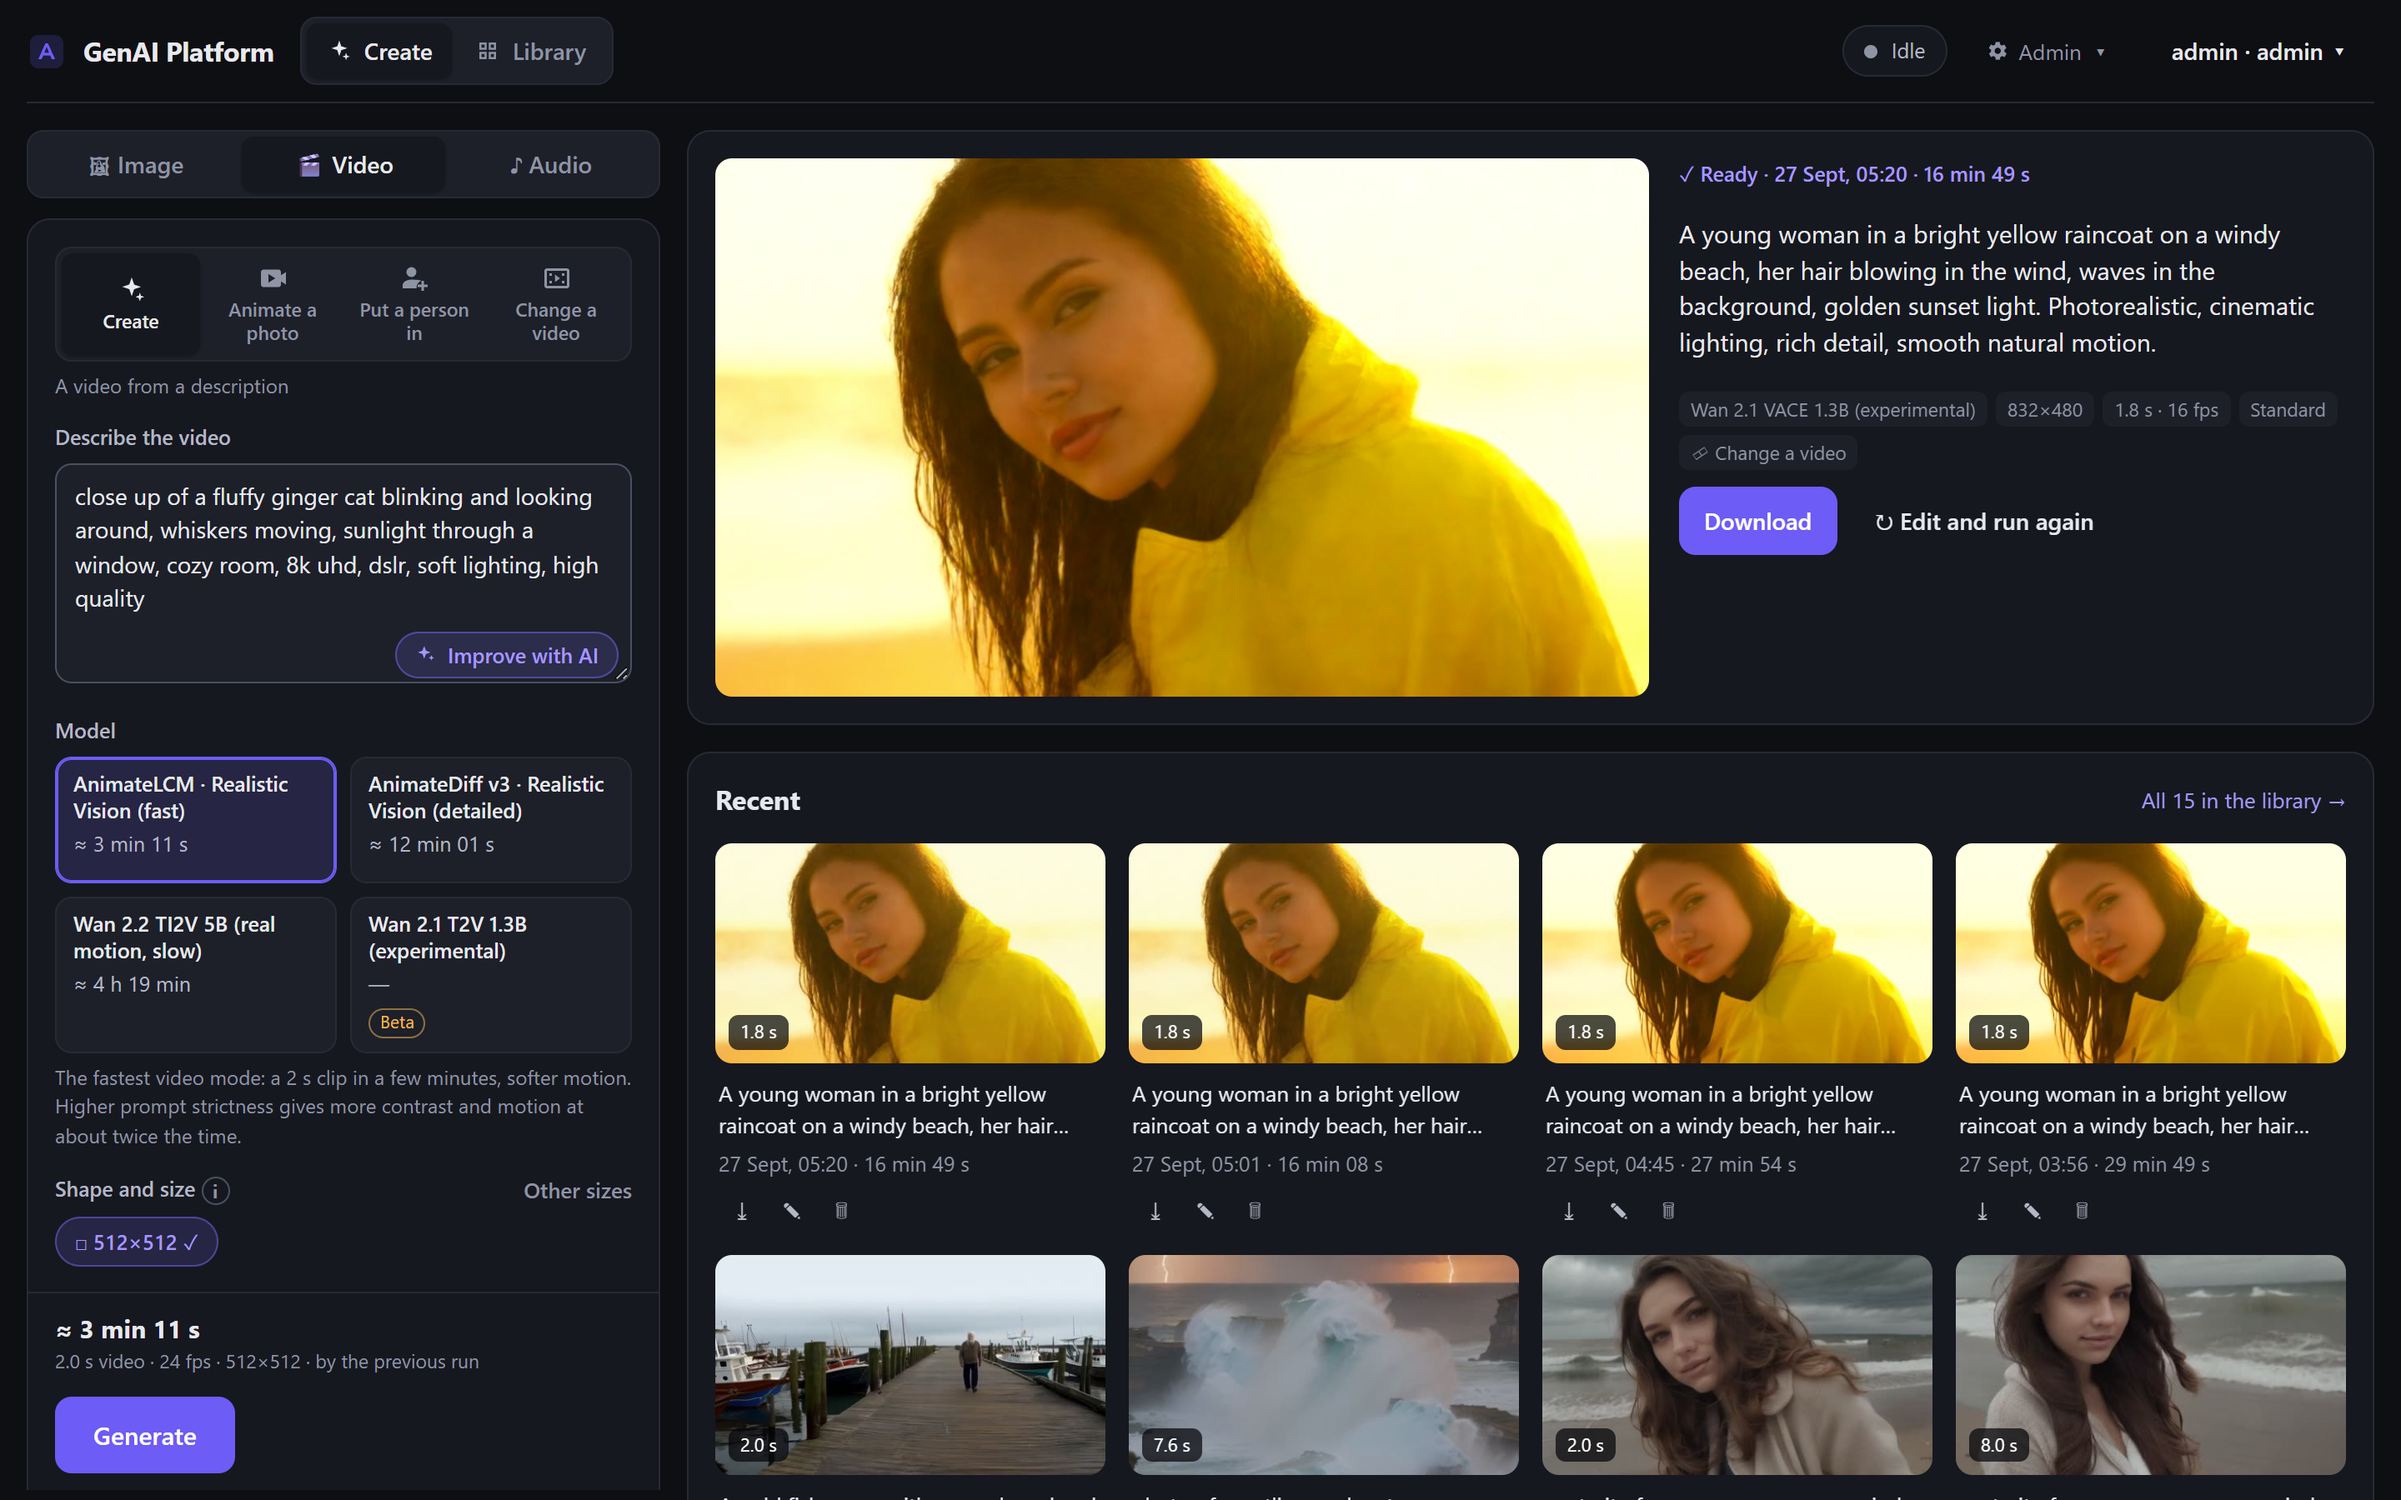
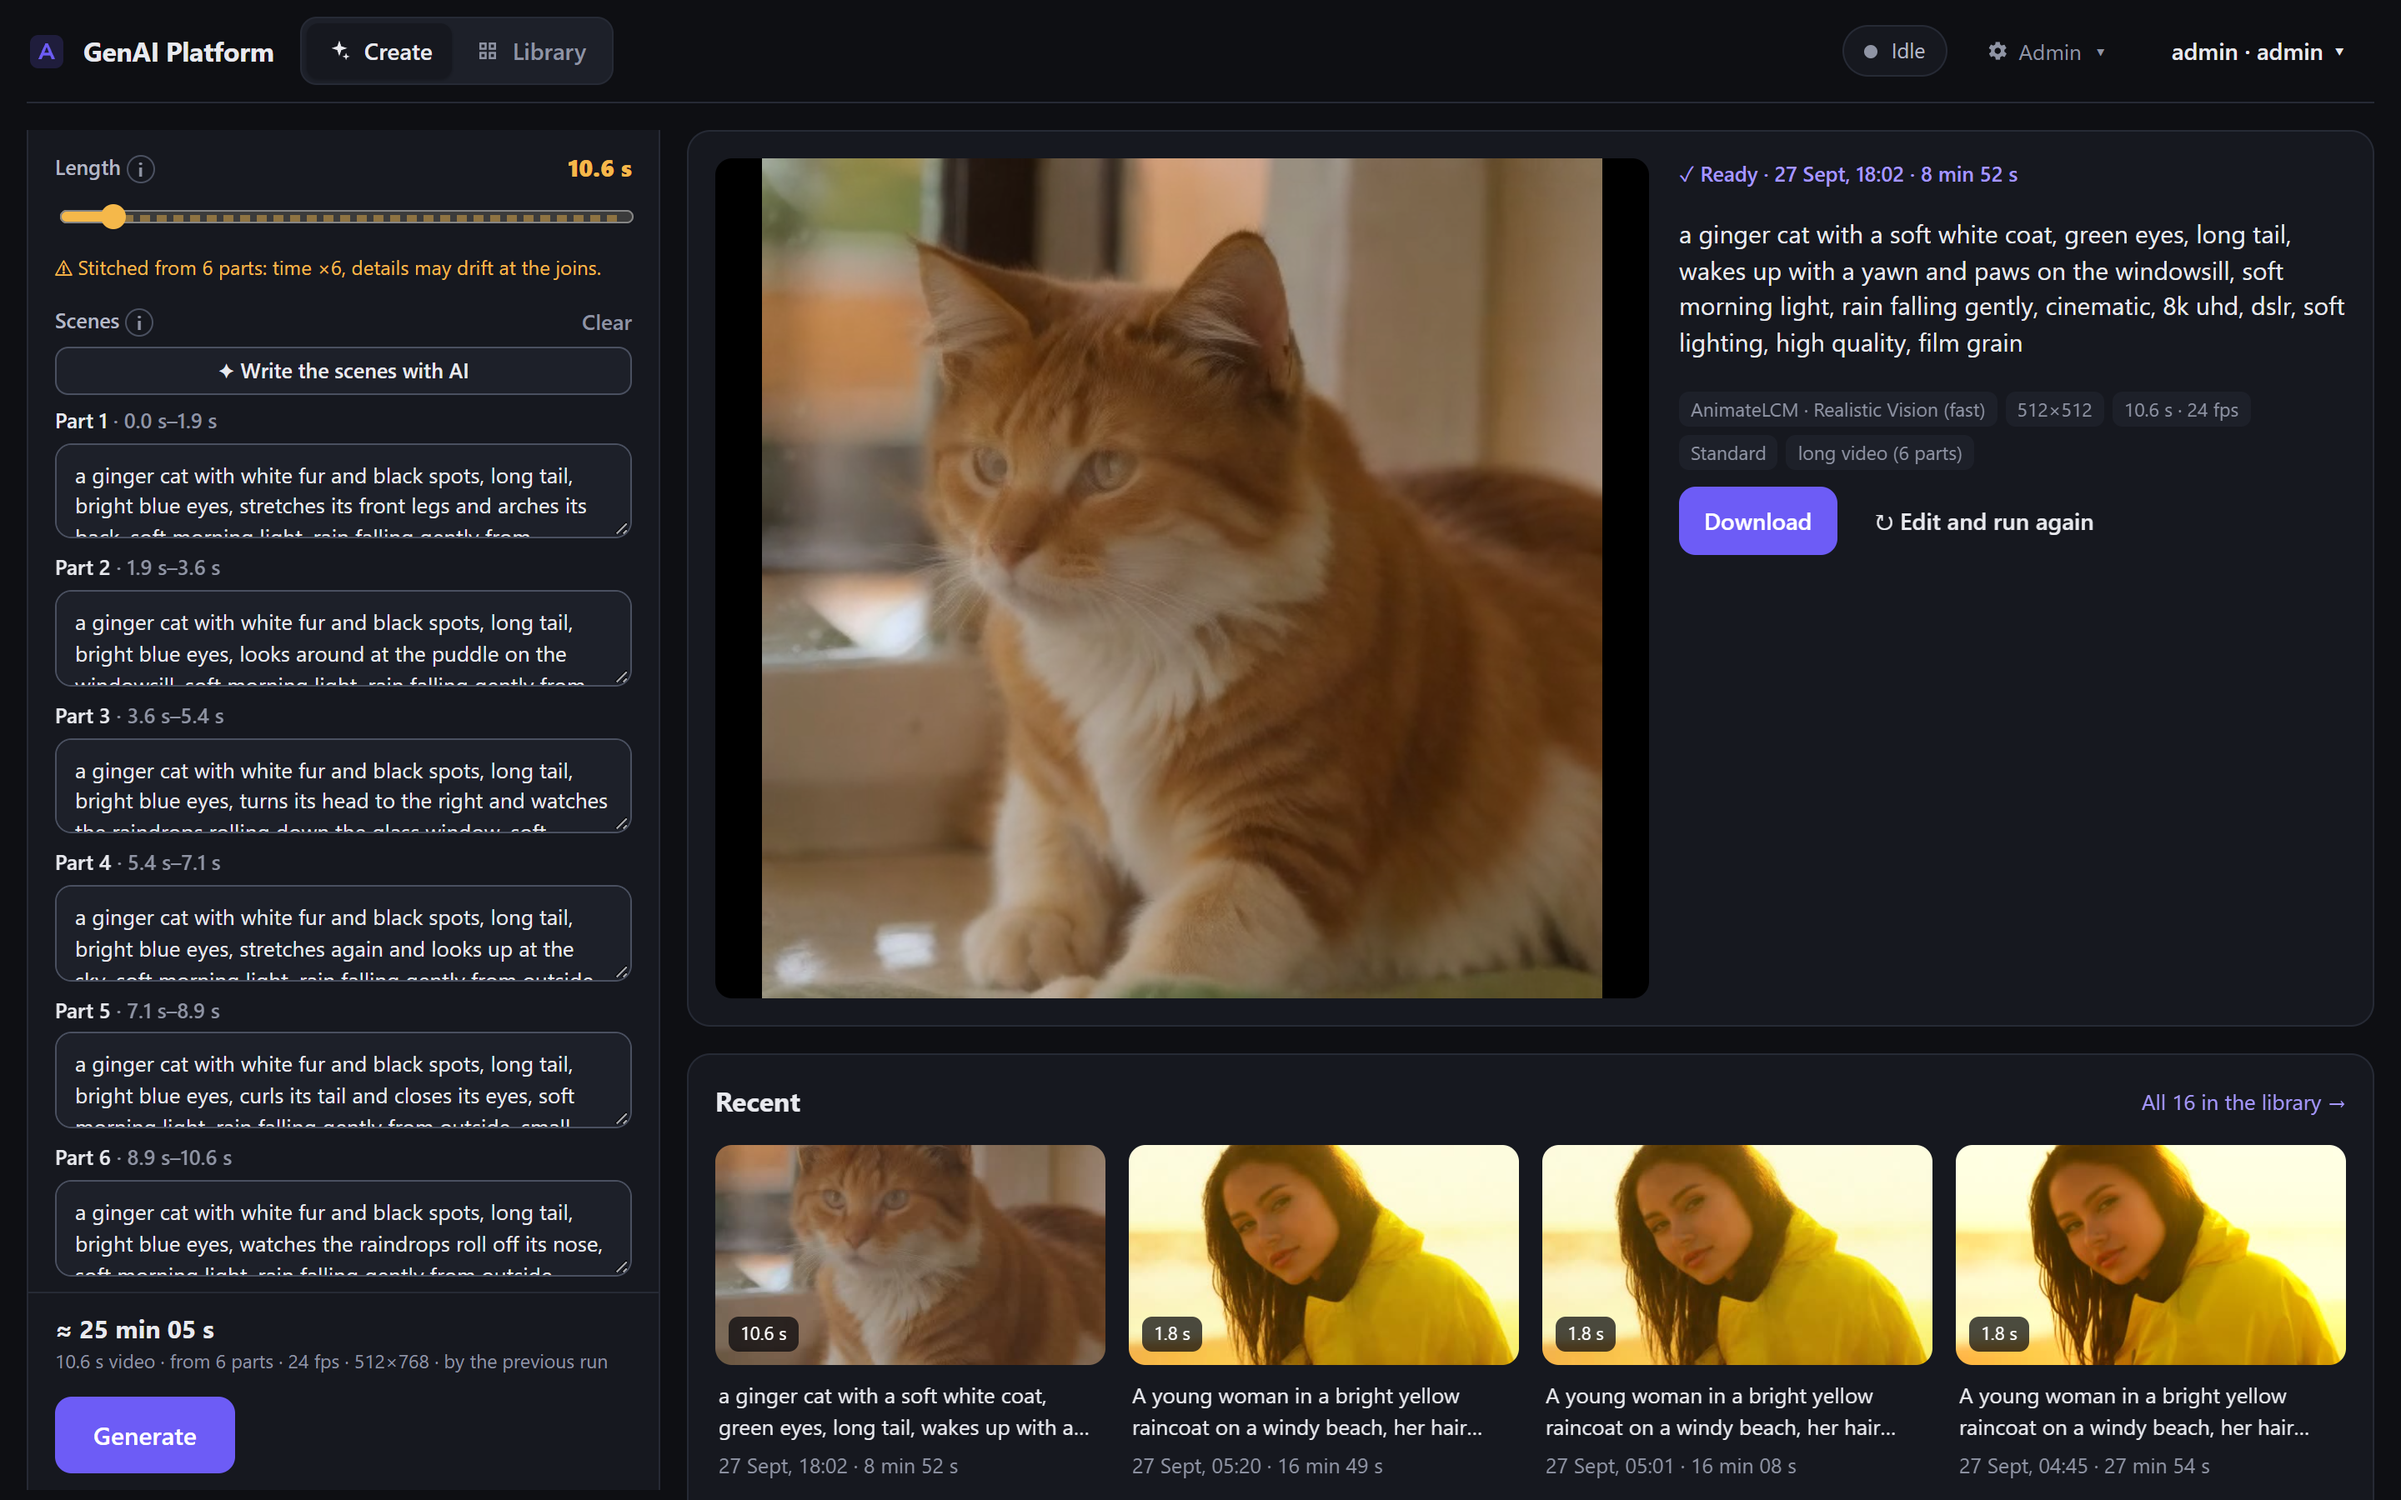
README: the video screenshot shows a long video with its scenes

diff --git a/README.md b/README.md
@@ -42,7 +42,7 @@ Taken on the reference machine (Radeon 890M) at the size of a 13" laptop screen 
 | | |
 |---|---|
 | [![Create an image](docs/screenshots/create-image.png)](docs/screenshots/create-image.png) **Create:** task, prompt with the AI assistant, models with the time per result; the latest result with what to do next | [![Audio](docs/screenshots/create-audio.png)](docs/screenshots/create-audio.png) **Audio:** music, sound effects and speech; any result can become the sound of a video |
-| [![Change a part](docs/screenshots/change-part.png)](docs/screenshots/change-part.png) **Change a part:** paint over the hat, describe what goes there | [![Video](docs/screenshots/create-video.png)](docs/screenshots/create-video.png) **Video:** a clip changed with Wan 2.1 VACE (the motion of an uploaded video, a new look) |
+| [![Change a part](docs/screenshots/change-part.png)](docs/screenshots/change-part.png) **Change a part:** paint over the hat, describe what goes there | [![Video](docs/screenshots/create-video.png)](docs/screenshots/create-video.png) **Long video:** 10.6 s from six parts, each with its own scene written by the prompt assistant |
 | [![Library](docs/screenshots/library.png)](docs/screenshots/library.png) **Library:** everything generated, filters, search | [![Viewer](docs/screenshots/viewer.png)](docs/screenshots/viewer.png) **Viewer:** the result and its follow-up actions |
 | [![System](docs/screenshots/system.png)](docs/screenshots/system.png) **System:** hardware at a glance and the self-check | [![Models](docs/screenshots/models.png)](docs/screenshots/models.png) **Models:** catalog, sizes, licenses, what uses what |
 | [![Settings](docs/screenshots/settings.png)](docs/screenshots/settings.png) **Settings:** the prompt assistant (Ollama) and telemetry | [![Phone](docs/screenshots/phone-create.png)](docs/screenshots/phone-create.png) [![Phone library](docs/screenshots/phone-library.png)](docs/screenshots/phone-library.png) **On a phone** |
